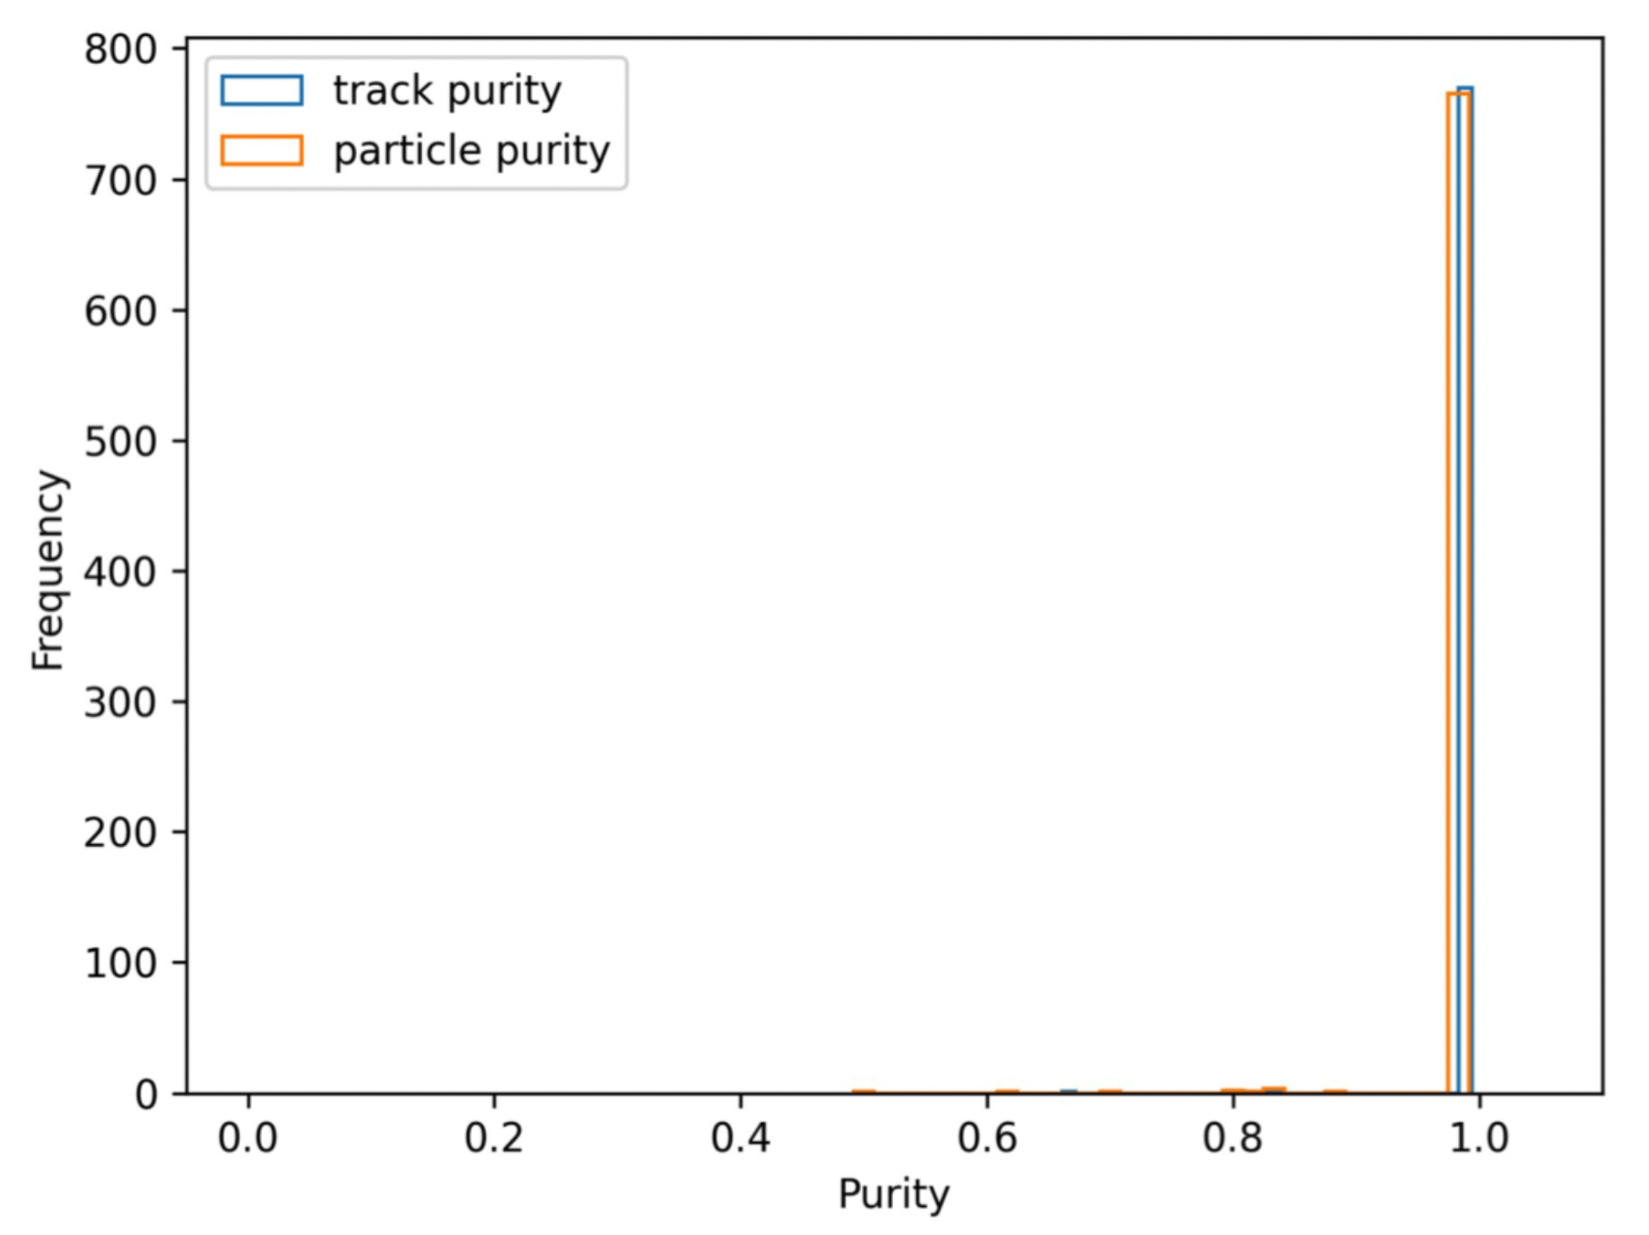
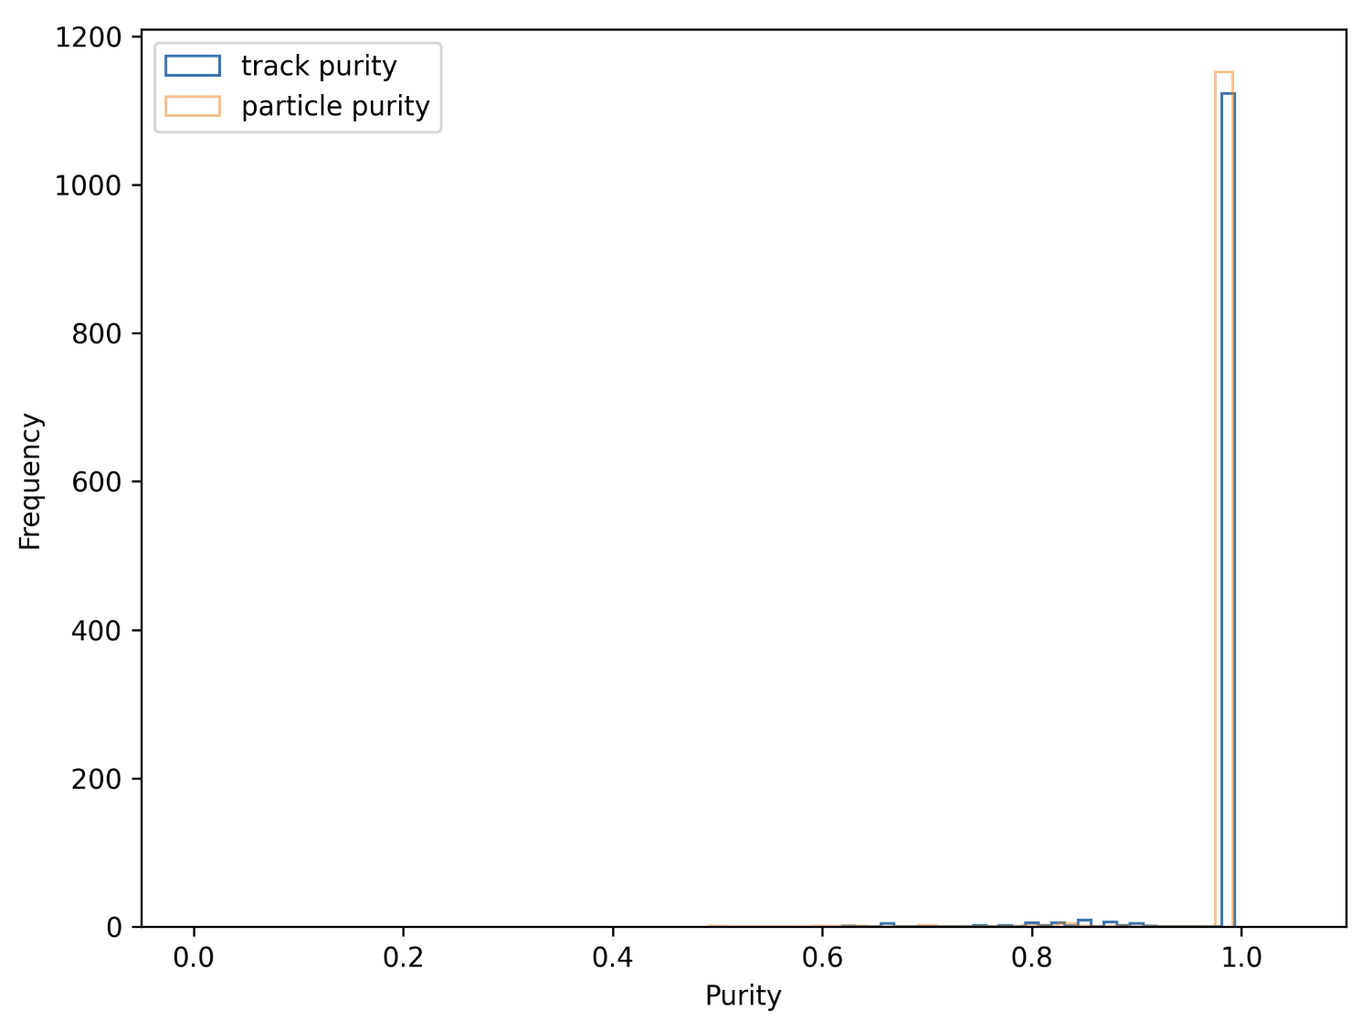
Changes made from supervisors to chapter 7

Changed region(s): [[0.0, 0.0, 1.0, 0.9428], [0.49, 0.9428, 0.5819, 1.0]]

diff --git a/chapters/7-results-discussion.tex b/chapters/7-results-discussion.tex
@@ -14,18 +14,19 @@ This chapter focuses on the application of the GNN algorithm to the Pixel endcap
 
 
 \subsection{Performance Evaluation on Volume 7}
+\label{performance-eval-endcap-vol-7-start}
 
 The GNN algorithm is first applied to volume 7 of the TrackML detector model, by isolating the left Pixel endcap. The geometry in the endcap consists of parallel silicon layers and is the simplest part of the detector to begin reconstruction. An example TrackML simulated event shown in volume 7 can be seen in Figure \ref{fig:trackml-results-endcap-nodes-sim}.
 
 \begin{figure}[htbp!] 
     \centering
     \subfloat[$x$-$y$ plane view]{%
-        \includegraphics[width=0.51\linewidth]{images/7-results/trackml-endcap-nodes-xy.png}%
+        \includegraphics[width=0.50\linewidth]{images/7-results/trackml-endcap-nodes-xy.png}%
         \label{fig:endcap-trackml-sim-xy}%
         }%
     \hfill%
     \subfloat[$r$-$z$ plane view]{%
-        \includegraphics[width=0.49\linewidth]{images/7-results/trackml-endcap-nodes-rz.png}%
+        \includegraphics[width=0.48\linewidth]{images/7-results/trackml-endcap-nodes-rz.png}%
         \label{fig:endcap-trackml-sim-rz}%
         }%
     \caption{Event simulation of the TrackML detector isolating volume 7.}
@@ -33,7 +34,7 @@ The GNN algorithm is first applied to volume 7 of the TrackML detector model, by
 \end{figure}
 
 
-The graph network is constructed using 9835 nodes located in volume 7 from a simulated TrackML event and 18,184 predicted edges using the FASTrack algorithm \cite{Dmitry-fasttrack-addtest}, as described in Section \ref{chapter-6-data-prep}. Track state estimates, $X_{ij}$, and edge state covariances, $C_{ij}$, are constructed using the model as described in Section \ref{constructing-track-states}. Figure \ref{fig:trackml-results-endcap-extracted} illustrates the extracted track candidates post Stage 1 of application of the GNN algorithm to volume 7 of the TrackML detector. During this first stage, 960 track candidates were successfully extracted. Figure \ref{fig:trackml-results-endcap-extracted-v2} shows the extracted track candidates post Stage 2 of the GNN algorithm, where a further 265 track candidates were successfully extracted.
+The graph network is constructed using 9835 nodes located in volume 7 from a simulated TrackML event and 18,184 predicted edges using the FASTrack algorithm \cite{Dmitry-fasttrack-addtest}, as described in Section \ref{chapter-6-data-prep}. The FASTack algorithm uses several cuts on track parameters when the graph segments are generated. For this particular test the following cut was used: $p_{\text{T}} \ge 150$ MeV. Using the same generated graph, this cut was then increased to $p_{\text{T}} \ge 1$ GeV. Track state estimates, $X_{ij}$, are constructed using the model as described in Section \ref{constructing-track-states}. Figure \ref{fig:trackml-results-endcap-extracted} illustrates the extracted track candidates post Stage 1 of application of the GNN algorithm, where 1054 track candidates were successfully extracted. Figure \ref{fig:trackml-results-endcap-extracted-v2} shows the extracted track candidates post Stage 2, where a further 265 candidates were extracted.
 
 \begin{figure}[htbp]%
     \centering
@@ -69,11 +70,11 @@ The proportion of nodes removed from the main graph network during Stage 1 and S
 An \textit{outlier edge} is defined to be an edge where its nodes do not belong to the same truth track (truth 1). A \textit{good edge} is defined to be an edge where its nodes do belong to the same truth track (truth 0). The following confusion matrices depict the prediction summary of the GNN algorithm onto the TrackML simulated event, where predicted class 1 indicates the prediction of outlier edges with respect to MC truth and predicted class 0 indicates the prediction of good edges to remain active in the network. The confusion matrix for Stage 1 of the GNN algorithm applied to volume 7 is shown in Figure \ref{fig:confusion-matrix-endcap-stage-1}.
 
 
-The TPR (and recall) for identification of correct outlier edges achieved was 90.1\%, and the True Negative Rate (TNR) in identification of good edges achieved was 90.6\%. With respect to MC ground truth, the proportion of correct outlier edges identified during Stage 1 of the GNN algorithm, and hence the precision, was found to be 85.1\%. This indicates that the GMR technique of the GNN-algorithm works well for resolving ambiguities in the graph network. The confusion matrix for Stage 2 of the GNN algorithm applied to volume 7 is shown in Figure \ref{fig:confusion-matrix-endcap-stage-1}.
+The TPR (and recall) for identification of correct outlier edges achieved was 90.1\%, and the True Negative Rate (TNR) in identification of good edges achieved was 90.6\%. With respect to MC ground truth, the proportion of correct outlier edges identified during Stage 1 of the GNN algorithm, and hence the precision, was found to be 85.1\%. This indicates that the GMR technique of the GNN-algorithm works well for resolving ambiguities in the graph network. The confusion matrix for Stage 2 of the GNN algorithm applied to volume 7 is shown in Figure \ref{fig:confusion-matrix-endcap-stage-2}.
 
 \begin{figure}[htbp]
     \centering
-    \includegraphics[width=0.79\textwidth]{images/7-results/confusion_matrix_endcap_stage_1.png}
+    \includegraphics[width=0.78\textwidth]{images/7-results/confusion_matrix_endcap_stage_1.png}
     \caption{Confusion matrix for Stage 1 of the GNN algorithm applied to the Pixel endcap (volume 7) of the TrackML detector model.}
     \label{fig:confusion-matrix-endcap-stage-1}%
 \end{figure}
@@ -81,7 +82,7 @@ The TPR (and recall) for identification of correct outlier edges achieved was 90
 
 \begin{figure}[htbp]
     \centering
-    \includegraphics[width=0.79\textwidth]{images/7-results/confusion_matrix_endcap_stage_2.png}
+    \includegraphics[width=0.78\textwidth]{images/7-results/confusion_matrix_endcap_stage_2.png}
     \caption{Confusion matrix for Stage 2 of the GNN algorithm applied to the Pixel endcap (volume 7) of the TrackML detector model.}
     \label{fig:confusion-matrix-endcap-stage-2}%
 \end{figure}
@@ -106,24 +107,50 @@ The track reconstruction efficiency, $\epsilon$, provides an indication of the p
 
 Track reconstruction efficiency is calculated by first dissociating graph nodes back to hits, which means that a track candidate is now a collection of hits from several truth particles. A reconstructable reference track, $N_R$, is defined as a fully contained track within the volume of interest. As the TrackML detector can produce up to four hits per detector layer, we define a fully contained track to have at least twelve hits within the region of interest. Particles with twelve or more hits and proposed tracks with twelve or more hits are considered. Successfully reconstructed reference tracks, $n_R$, are defined as having at least 50\% of its hits from the same truth particle, $N_{hits}$. If $N_{hits} \geq 0.5 \times N_{ref}$, where $N_{ref}$ is the number of reference hits in the volume of interest, then the truth particle reference track is considered as reconstructed.
 
-For fully contained MC truth tracks within volume 7 of the TrackML Pixel detector with $p_{\text{T}} \geq$ 150MeV, the track reconstruction efficiency obtained was 86.2\%, where $n_R = 614$ and $N_R = 712$. Similarly, for fully contained MC truth tracks within volume 7 of the TrackML Pixel detector with $p_{\text{T}} \geq$ 1GeV the track reconstruction efficiency obtained was 93.8\%, where $n_R = 180$ and $N_R = 192$.
+Initially, all reference tracks with $p_{\text{T}} \ge$ 150 MeV are selected and the efficiency is calculated for this. The cut in then increased to select reference tracks with $p_{\text{T}} \ge$ 1 GeV. Table \ref{tab:trackml-track-recon-effs} summarises the track reconstruction efficiencies obtained for fully contained MC truth tracks within volume 7 of the TrackML Pixel detector.
 
+
+\begin{table}[htbp]
+\caption{Summary of track reconstruction efficiencies obtained for fully contained MC truth tracks within volume 7 of the TrackML Pixel detector, which have been extracted using the GNN iterative algorithm developed. $n_R$ is the number of successfully reconstructed reference tracks, $N_R$ is the total number of reconstructable reference tracks and $\epsilon$ is the track reconstruction efficiency. }
+
+\begin{center}
+\begin{tabular}{cccc}
+\toprule
+Threshold & $n_R$ & $N_R$ & $\epsilon$ \\
+\hline
+$p_{\text{T}} \ge$ 150 MeV    & 1167  & 1347  &  86.6\%    \\
+$p_{\text{T}} \ge$ 1 GeV      & 180   & 192   &  93.8\%    \\
+\bottomrule
+\end{tabular}
+\end{center}
+\label{tab:trackml-track-recon-effs}
+\end{table}
+
+%For fully contained MC truth tracks within volume 7 of the TrackML Pixel detector with $p_{\text{T}} \geq$ 150MeV, the track reconstruction efficiency obtained was 86.2\%, where $n_R = 614$ and $N_R = 712$. Similarly, for fully contained MC truth tracks within volume 7 of the TrackML Pixel detector with $p_{\text{T}} \geq$ 1GeV the track reconstruction efficiency obtained was 93.8\%, where $n_R = 180$ and $N_R = 192$.
+
+% correct data - checked
+% pt cut of 150 MeV
+% Total num of reconstructed tracks: 1167
+% Total num of reference tracks: 1347
+% Track reconstruction efficiency:  86.637 %
+
+% pt cut of 1 GeV
 % Total num of reconstructed tracks: 180
 % Total num of reference tracks: 192
 % Track reconstruction efficiency:  93.750 %
 
 
-Each track is matched with the ground truth majority particle sharing with it the greatest hit number, $N_{truth}$. The ratio of $N_{truth}$ to the number of hits for the reconstructed track, $N_{hits}$, defines the track purity, whilst the ratio of $N_{truth}$ to the number of hits of the underlying particle, $N_{phits}$, defines the particle purity. Both the track purity and particle purity must be $>$ 50\%. This criteria coincides with the definition of an accepted track candidate stated in the TrackML competition \cite{kaggle-trackml}. The purity distributions are shown in Figure \ref{fig:trackml-results-endcap-purity}. 
+Each track is matched with the ground truth majority particle sharing with it the greatest hit number, $N_{truth}$. The ratio of $N_{truth}$ to the number of hits for the reconstructed track, $N_{hits}$, defines the track purity, whilst the ratio of $N_{truth}$ to the number of hits of the underlying particle, $N_{phits}$, defines the particle purity. Both the track purity and particle purity must be greater than 50\%. This criteria coincides with the definition of an accepted track candidate stated in the TrackML competition \cite{kaggle-trackml}.
+
+The purity distributions are shown in Figure \ref{fig:trackml-results-endcap-purity}. The average track purity and particle purity achieved for all extracted candidates in volume 7 after application of the GNN algorithm was 99.0\% for both quantities. There is a small tail in the distribution, however this is negligible as it is several orders of magnitude lower than the main peak. Both purity distributions indicate that the application of the OU process within the KF for track extraction works well to model the influence of the magnetic field for the given $p_{\text{T}}$ range.
 
 \begin{figure}[htbp]
     \centering
-    \includegraphics[width=0.7\textwidth]{images/7-results/endcap-purity.png}
+    \includegraphics[width=0.75\textwidth]{images/7-results/endcap-purity-log.png}
     \caption{Purity distributions for extracted track candidates after application of the GNN algorithm for track reconstruction within volume 7 of the TrackML Pixel detector with $p_{\text{T}} \geq$ 150MeV.}
     \label{fig:trackml-results-endcap-purity}%
 \end{figure}
 
-
-The average track purity and particle purity achieved for all extracted candidates in volume 7 after application of the GNN algorithm was 99.0\% for both quantities. This indicates that the application of the OU process within the KF for track extraction works well for the given $p_{T}$ range.
 
 %present the average over many events here
 Executing the GNN algorithm on 50 simulated TrackML events, the average track reconstruction efficiency achieved for fully contained tracks within volume 7 and with $p_{\text{T}} \geq$ 1GeV was 93.3\%. The average track purity and average particle purity achieved were 99.0\% for both quantities.
@@ -138,7 +165,25 @@ Executing the GNN algorithm on 50 simulated TrackML events, the average track re
 
 \subsection{Execution Times}
 
-The GNN algorithm was executed on a MacOS machine, M1 Pro chip, 16GB RAM, with no multi-threaded functions. The minimum execution time for the GNN algorithm to process 1 simulated event in volume 7 of the TrackML detector was 45.6s. Figure \ref{fig:execution-time-endcap-1} shows a breakdown in execution time for each stage of the GNN algorithm.
+The GNN algorithm was executed on a MacOS machine, M1 Pro chip, 16GB RAM, with no multi-threaded functions. The minimum execution time for the GNN algorithm to process 1 simulated event in volume 7 of the TrackML detector was 45.6s. Table \ref{tab:trackml-endcap-execution-times} and Figure \ref{fig:execution-time-endcap-1} show the breakdown of execution time for each stage of the GNN algorithm. The initialization of the graph network adopts the majority of the execution time, where the remaining algorithmic components comprise 15.9s in execution time. Graph network initialization comprises of a conversion of TrackML hit data to nodes and edges, as well as construction of track state estimates $X_{ij}$ and covariances $C_{ij}$. Reading and writing into the graph network implemented using the NetworkX library contributes a significant proportion of execution time. Whereas, the execution time for each stage of the GNN algorithm, as well as track extraction, is notably small.
+
+\begin{table}[htbp]
+\caption{Breakdown of execution time and cumulative execution time for each stage of the GNN algorithm applied to volume 7 of the TrackML detector.}
+\begin{center}
+\begin{tabular}{lccc}
+\toprule
+GNN Algorithm Stage & Time (s) & Cumulative Time (s) & \% \\
+\hline
+Graph Network Initialization    & 29.7  & 29.7  &  65.1    \\
+Stage 1: GMR                    & 3.5   & 33.2   &  7.7    \\
+Track Extraction 1              & 4.8   & 38.0   &  10.5    \\
+Stage 2: Information Aggregation & 3.2   & 41.2   &  7.0    \\
+Track Extraction 2              & 4.4   & 45.6   &  9.6    \\
+\bottomrule
+\end{tabular}
+\end{center}
+\label{tab:trackml-endcap-execution-times}
+\end{table}
 
 \begin{figure}[htbp]
     \centering
@@ -147,10 +192,6 @@ The GNN algorithm was executed on a MacOS machine, M1 Pro chip, 16GB RAM, with n
     \label{fig:execution-time-endcap-1}%
 \end{figure}
 
-%TODO: execution time on both left and right endcaps
-
-
-The initialization of the graph network adopts the majority of the execution time, where the remaining algorithmic components comprise 15.9s in execution time. Graph network initialization comprises of a conversion of TrackML hit data to nodes and edges, as well as construction of track state estimates $X_{ij}$ and covariances $C_{ij}$. Reading and writing into the graph network implemented using the NetworkX library contributes a significant proportion of execution time. Whereas, the execution time for each stage of the GNN algorithm, as well as track extraction, is notably small.
 
 
 
@@ -158,22 +199,19 @@ The initialization of the graph network adopts the majority of the execution tim
 
 \subsection{Advantages of the KF Implementation}
 
-An important feature of the application of the KF is that reconstruction of curved tracks is possible using a low-dimensionality model. By assuming a slow change in track direction, a special dynamic model for the KF is constructed using the OU process. This indicates that the OU process implicitly takes into account the track curvature, without the need to extend the track state to contain additional parameters.
+An important feature of the KF application is that reconstruction of curved tracks is possible using a low-dimensionality model. By assuming a slow change in track direction, a dynamic model for the KF is constructed using the OU process. The OU process implicitly takes into account the track curvature, without the need to extend the track state to contain additional parameters.
 
 
 
 
 
 
-
-
-%\section{Outlook and Further Work}
-% \label{chapter-7-outlook}
 
 \section{Extension to the Pixel Barrel Region}
 \label{chapter-7-outlook}
 
-The application of the GNN algorithm is extended to the Pixel barrel region and the right endcap of the TrackML detector, in order to cover the entire Pixel detector volumes $\{7, 8, 9\}$, with reference to Figure \ref{fig:trackml-detector-image}. The graph network is constructed using 38,365 nodes contained within these volumes from a simulated TrackML event, and 201,748 predicted edges are formed using the FASTrack algorithm \cite{Dmitry-fasttrack-addtest}. Figure \ref{fig:trackml-results-barrel-endcap} illustrates the extracted track candidates after application of the GNN algorithm. 
+
+The application of the GNN algorithm is extended to the Pixel barrel region and the right endcap of the TrackML detector, in order to cover the entire Pixel detector volumes $\{7, 8, 9\}$, with reference to Figure \ref{fig:trackml-detector-image}. The graph network is constructed using 38,365 nodes contained within these volumes from a simulated TrackML event, and 201,748 predicted edges are formed using the FASTrack algorithm \cite{Dmitry-fasttrack-addtest}. For this particular test the same initial $p_{\text{T}}$ cut as executed in Section \ref{performance-eval-endcap-vol-7-start} was used for graph segment generation: $p_{\text{T}} \ge 150$ MeV. Figure \ref{fig:trackml-results-barrel-endcap} illustrates the extracted track candidates after application of the GNN algorithm. 
 
 It is clear to see from Figure \ref{fig:trackml-results-barrel-endcap-extracted-xy} that track candidates are extracted uniformly across all $ 0^{\circ} \leq \phi \leq 360^{\circ}$ during Stages 1 and 2 of the GNN algorithm. This is as expected due to the rotational symmetry of the detector in the transverse plane. 
 
@@ -269,7 +307,7 @@ In general, a track state in $r$-$z$ plane is defined as a track position at som
 
 \begin{figure}[htbp]
     \centering
-    \includegraphics[width=0.9\textwidth]{images/7-results/improvement-extrapolation.png}
+    \includegraphics[width=0.8\textwidth]{images/7-results/improvement-extrapolation.png}
     \caption{Illustration of track state extrapolation from node A located in a barrel layer at constant radius $r$, to the target node, node T located in an endcap layer at constant $z$-position.}
     \label{fig:improvement-extrapolation}%
 \end{figure}
@@ -302,11 +340,11 @@ Exploring this general case of extrapolation in the $r$-$z$ plane is one such en
 
 Several computational refinements and software optimisations that can be done to in order to improve the implementation of the GNN algorithm are discussed here.
 
-With regards to algorithm implementation, the Python library \textit{Numpy} \cite{harris2020array} can be utilised for all matrix computations between track state vectors. This will allow for scalability and reduce processing time, specifically for highly dense environments with large numbers of graph nodes. 
+With regards to algorithm implementation, the Python library \textit{Numpy} \cite{harris2020array} is utilised for all matrix computations between track state vectors. This allows for scalability and reduces processing time, specifically for highly dense environments with large numbers of graph nodes. However, in general many other optimisations can be implemented in order to eliminate redundancies in code. These include using the most efficient data structures appropriate to the problem, avoiding unnecessary Input/Output such that the algorithm only reads and writes to files when absolutely necessary, as well as reducing code complexity.
 
 With reference to Figure \ref{fig:execution-time-endcap-1}, from these observations it was found that the greatest execution time was during the graph network initialization stage, specifically during the reading and writing of metadata to the network nodes. An alternative procedure that can be explored here is the use of Numpy arrays for data storage.
 
-Another software optimisation includes the use of GPU implementation. This would allow significant speed up due to its superior processing power and greater memory storage. GPUs can handle many more mathematical calculations at once with greater efficiency compared to CPUs and would be vital for the improvement of the GNN algorithm. One such implementation of this would be using the Python package \textit{QuPy} \cite{qupy}, as a GPU simulator. All aspects mentioned above are necessary improvements for the algorithm to be considered for proper online usage in track finding software in detector experiments.
+Another software optimisation includes the use of GPU implementation. This would allow significant speed up due to its superior processing power and greater memory storage. GPUs can handle many more mathematical calculations at once with greater efficiency compared to CPUs and would be vital for the improvement of the GNN algorithm. One such implementation of this would be using the Python package \textit{CuPy} \cite{cupy_learningsys2017}, to leverage GPU accelerators by replacing all Numpy implementations. All aspects mentioned above are necessary improvements for the algorithm to be considered for proper online usage in track finding software in detector experiments.
 
 
 
@@ -343,7 +381,7 @@ A technique such as Community Detection is advantageous for a problem such as tr
 
 \section{Conclusion}
 
-It is promising to see that the GNN algorithm works on simulated particle collision events produced by the TrackML detector, which have significant track multiplicity. The proposed GNN algorithm is successful in identifying outlier edge connections in an iterative manner, as well as successful in extracting track candidates for the endcap regions. It is an encouraging result that this methodology provides a high performance for fully contained tracks within the endcap volume, achieving 93.3\% average track reconstruction efficiency for tracks with $p_{\text{T}} >$ 1GeV and averaging over 50 simulated TrackML events. The average track purity and average particle purity achieved were 99.0\% for both quantities. Overall, the application to the endcap region is highly successful.
+It is promising to see that the GNN algorithm works on simulated particle collision events produced by the TrackML detector, which have significant track multiplicity. The proposed GNN algorithm is successful in identifying outlier edge connections in an iterative manner, as well as successful in extracting track candidates for the endcap regions. It is an encouraging result that this methodology provides a high performance for fully contained tracks within the endcap volume, achieving 93.3\% average track reconstruction efficiency for tracks with $p_{\text{T}} >$ 1GeV averaged over 50 simulated TrackML events. The average track purity and average particle purity achieved were 99.0\% for both quantities. Overall, the application to the endcap region is highly successful.
 
 Neighbourhood complexity is inferred by the network, this is observed as the GNN algorithm automatically initiates the pattern recognition process in regions where outlier connections are easily identifiable. The network starts with low density regions (both endcap regions) and gradually progresses towards higher density areas (the transition between the barrel and endcap layers). This shows that the GNN algorithm behaves as expected.
 
